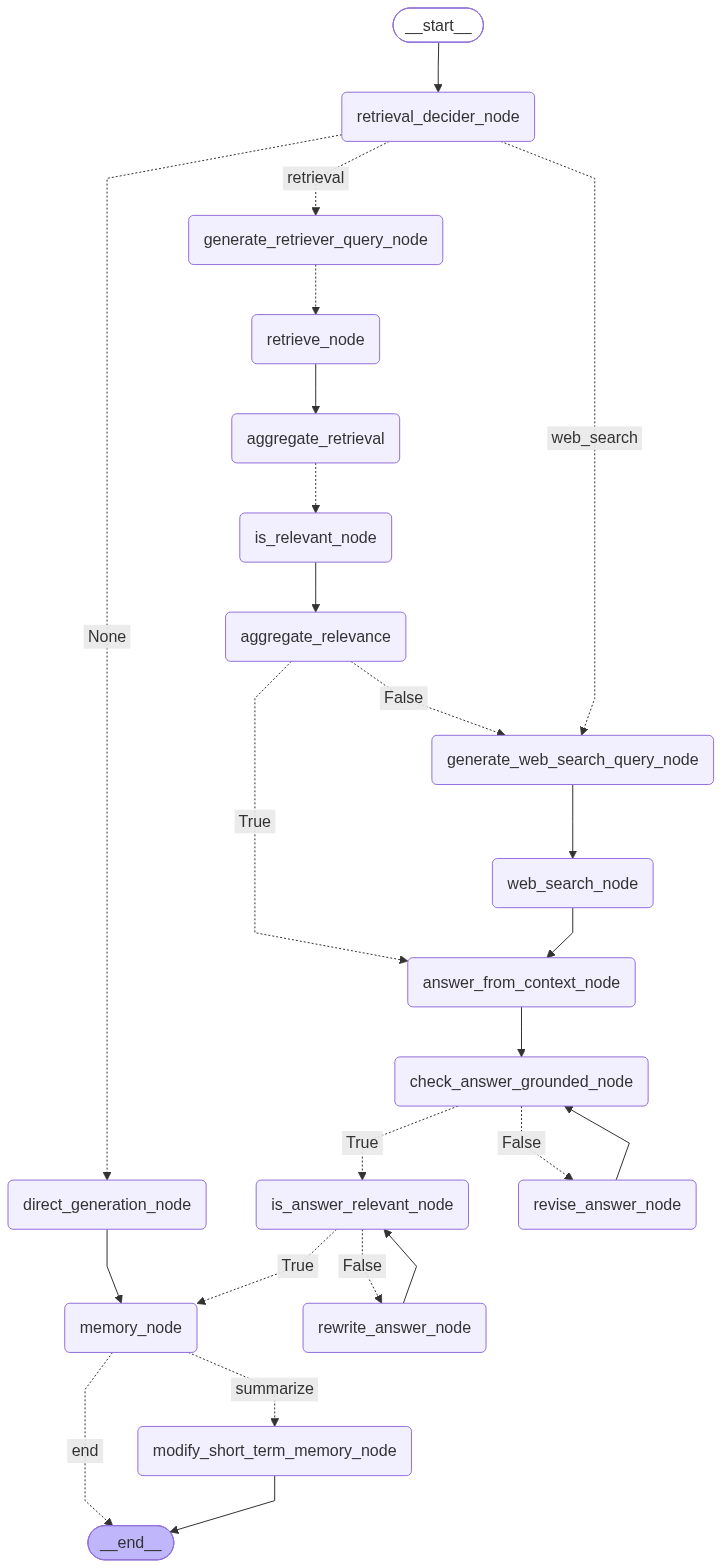
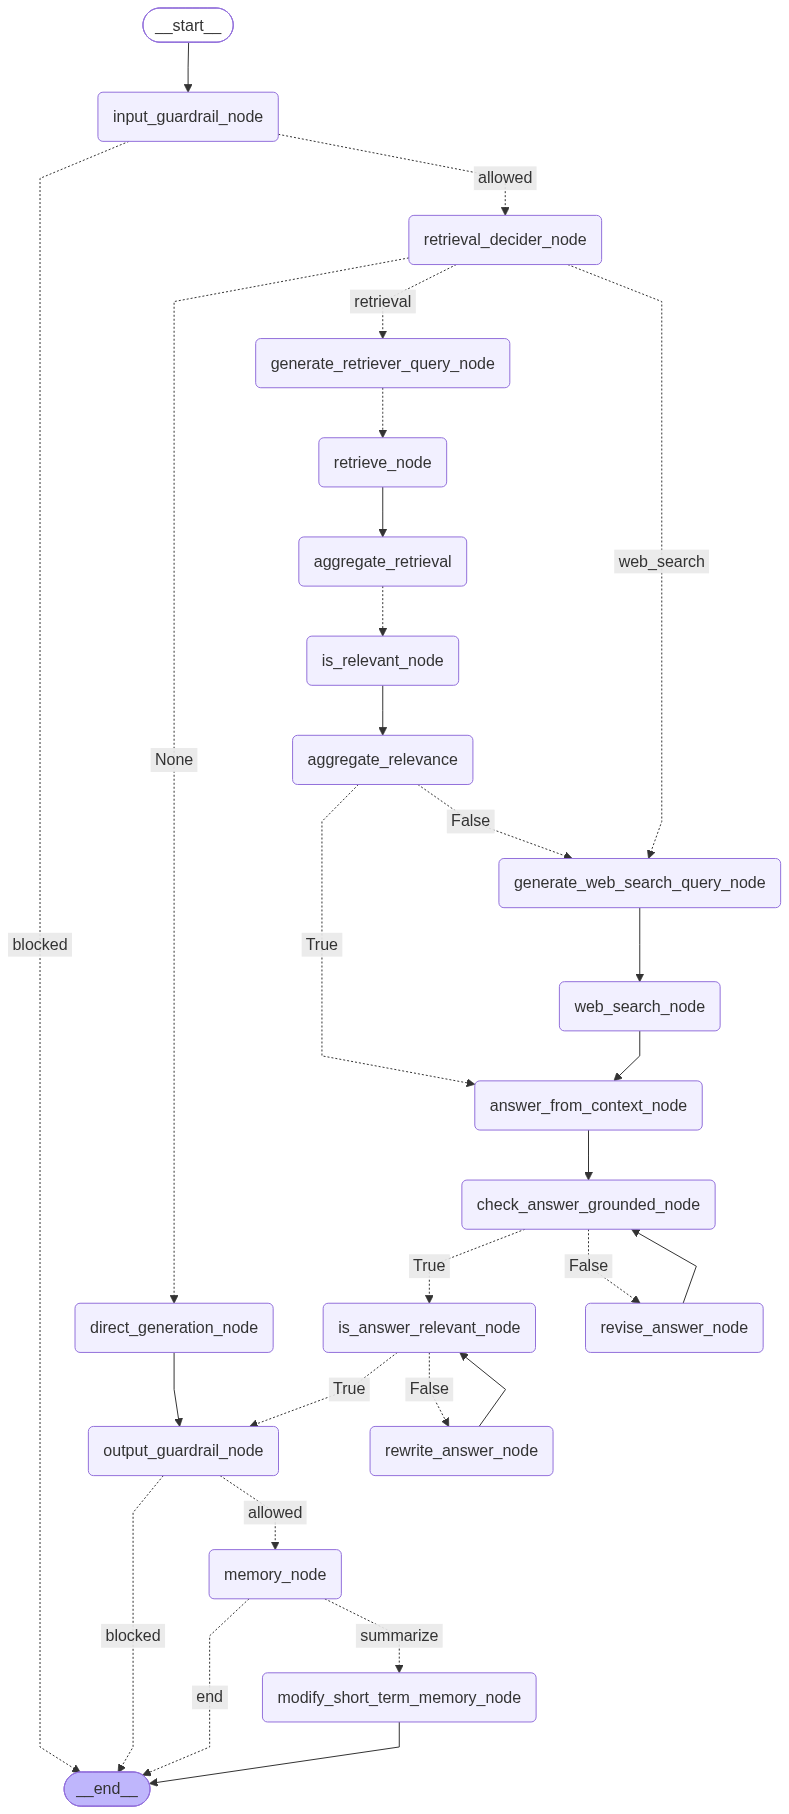
gaurdrails added

diff --git a/src/workflow/nodes.py b/src/workflow/nodes.py
@@ -1,4 +1,6 @@
 from langchain_core.messages import HumanMessage, AIMessage, SystemMessage
+import asyncio
+
 from workflow.state import schema
 from workflow.config import (
     decision_model,
@@ -14,6 +16,9 @@ from workflow.config import (
     tavily_tool,
     vector_store,
     max_retriever_queries,
+    guardrail_client,
+    guardrail_identifier,
+    guardrail_version,
 )
 from workflow.schemas import (
     parser_for_retrieval_decider_node,
@@ -41,6 +46,77 @@ from workflow.prompts import (
     sys_prompt_for_direct_generation_node,
 )
 from langgraph.types import Send
+
+
+GUARDRAIL_BLOCKED_MESSAGE = (
+    "Sorry, we can't help with this request because it is not allowed by our guardrails."
+)
+GUARDRAIL_PROVIDER_BLOCK_MESSAGE = "Sorry, the model cannot answer this question."
+
+
+async def _apply_guardrail(text: str, source: str) -> dict:
+    """Run Bedrock Guardrails without blocking the async event loop."""
+    return await asyncio.to_thread(
+        guardrail_client.apply_guardrail,
+        guardrailIdentifier=guardrail_identifier,
+        guardrailVersion=guardrail_version,
+        source=source,
+        content=[{"text": {"text": text}}],
+    )
+
+
+async def input_guardrail_node(state: schema):
+    result = await _apply_guardrail(state["user_query"], "INPUT")
+    intervened = result.get("action") == "GUARDRAIL_INTERVENED"
+    outputs = result.get("outputs") or []
+    modified_text = outputs[0].get("text") if outputs else None
+    blocked = intervened and (
+        modified_text == GUARDRAIL_PROVIDER_BLOCK_MESSAGE or not modified_text
+    )
+    if blocked:
+        return {
+            "message": GUARDRAIL_BLOCKED_MESSAGE,
+            "generated_response": GUARDRAIL_BLOCKED_MESSAGE,
+            "input_guardrail_intervened": True,
+            "input_guardrail_blocked": True,
+        }
+    if intervened:
+        return {
+            "user_query": modified_text,
+            "input_guardrail_intervened": True,
+            "input_guardrail_blocked": False,
+        }
+    return {
+        "input_guardrail_intervened": False,
+        "input_guardrail_blocked": False,
+    }
+
+
+async def output_guardrail_node(state: schema):
+    result = await _apply_guardrail(state["generated_response"], "OUTPUT")
+    intervened = result.get("action") == "GUARDRAIL_INTERVENED"
+    outputs = result.get("outputs") or []
+    modified_text = outputs[0].get("text") if outputs else None
+    blocked = intervened and (
+        modified_text == GUARDRAIL_PROVIDER_BLOCK_MESSAGE or not modified_text
+    )
+    if blocked:
+        return {
+            "message": GUARDRAIL_BLOCKED_MESSAGE,
+            "generated_response": GUARDRAIL_BLOCKED_MESSAGE,
+            "output_guardrail_intervened": True,
+            "output_guardrail_blocked": True,
+        }
+    if intervened:
+        return {
+            "generated_response": modified_text,
+            "output_guardrail_intervened": True,
+            "output_guardrail_blocked": False,
+        }
+    return {
+        "output_guardrail_intervened": False,
+        "output_guardrail_blocked": False,
+    }
 
 
 def _extract_r1_text(content) -> str:

diff --git a/src/workflow/__init__.py b/src/workflow/__init__.py
@@ -42,6 +42,8 @@ from workflow.nodes import (
     aggregate_retrieval,
     memory_node,
     modify_short_term_memory_node,
+    input_guardrail_node,
+    output_guardrail_node,
 )
 from workflow.edges import (
     retrieval_decider_condition,
@@ -49,6 +51,8 @@ from workflow.edges import (
     is_grounded_condition,
     is_answer_relevant_condition,
     memory_summary_condition,
+    input_guardrail_condition,
+    output_guardrail_condition,
 )
 
 if not os.getenv("LANGSMITH_API_KEY") or os.getenv("LANGSMITH_TRACING_V2") == "false":
@@ -61,6 +65,8 @@ if not os.getenv("LANGSMITH_API_KEY") or os.getenv("LANGSMITH_TRACING_V2") == "f
 
 graph = StateGraph(state_schema=schema)
 
+graph.add_node("input_guardrail_node", input_guardrail_node)
+graph.add_node("output_guardrail_node", output_guardrail_node)
 graph.add_node("retrieval_decider_node", retrieval_decider_node)
 graph.add_node("generate_retriever_query_node", generate_retriever_query_node)
 graph.add_node("retrieve_node", retrieve_node)
@@ -78,7 +84,12 @@ graph.add_node("aggregate_relevance", aggregate_relevance)
 graph.add_node("memory_node", memory_node)
 graph.add_node("modify_short_term_memory_node", modify_short_term_memory_node)
 
-graph.add_edge(START, "retrieval_decider_node")
+graph.add_edge(START, "input_guardrail_node")
+graph.add_conditional_edges(
+    "input_guardrail_node",
+    input_guardrail_condition,
+    {"allowed": "retrieval_decider_node", "blocked": END},
+)
 graph.add_conditional_edges(
     "retrieval_decider_node",
     retrieval_decider_condition,
@@ -94,7 +105,7 @@ graph.add_conditional_edges(
     path_map=["retrieve_node"],
 )
 graph.add_edge("generate_web_search_query_node", "web_search_node")
-graph.add_edge("direct_generation_node", "memory_node")
+graph.add_edge("direct_generation_node", "output_guardrail_node")
 graph.add_edge("retrieve_node", "aggregate_retrieval")
 graph.add_conditional_edges(
     "aggregate_retrieval",
@@ -118,7 +129,7 @@ graph.add_edge("revise_answer_node", "check_answer_grounded_node")
 graph.add_conditional_edges(
     "is_answer_relevant_node",
     is_answer_relevant_condition,
-    {True: "memory_node", False: "rewrite_answer_node"},
+    {True: "output_guardrail_node", False: "rewrite_answer_node"},
 )
 graph.add_edge("rewrite_answer_node", "is_answer_relevant_node")
 graph.add_conditional_edges(
@@ -127,6 +138,11 @@ graph.add_conditional_edges(
     {"summarize": "modify_short_term_memory_node", "end": END},
 )
 graph.add_edge("modify_short_term_memory_node", END)
+graph.add_conditional_edges(
+    "output_guardrail_node",
+    output_guardrail_condition,
+    {"allowed": "memory_node", "blocked": END},
+)
 
 
 @asynccontextmanager

diff --git a/src/workflow/config.py b/src/workflow/config.py
@@ -4,6 +4,7 @@ from langchain_tavily import TavilySearch
 from dotenv import load_dotenv
 import os
 import yaml
+import boto3
 
 load_dotenv()
 
@@ -17,6 +18,12 @@ _emb = _cfg["embeddings"]
 _vs = _cfg["vector_store"]
 _ret = _cfg["retriever"]
 _ws = _cfg["web_search"]
+_guardrails = _cfg["guardrails"]
+
+guardrail_identifier = _guardrails["identifier"]
+guardrail_version = str(_guardrails["version"])
+guardrail_region = _guardrails["region"]
+guardrail_client = boto3.client("bedrock-runtime", region_name=guardrail_region)
 
 # ── AWS auth ───────────────────────────────────────────────────────────────────
 if not os.environ.get("AWS_BEARER_TOKEN_BEDROCK"):

diff --git a/src/cli.py b/src/cli.py
@@ -5,15 +5,8 @@ import warnings
 import logging
 import time
 
-os.environ["TRANSFORMERS_VERBOSITY"] = "error"
-os.environ["HF_HUB_DISABLE_SYMLINKS_WARNING"] = "1"
-warnings.filterwarnings("ignore")
-logging.getLogger("transformers").setLevel(logging.ERROR)
-logging.getLogger("sentence_transformers").setLevel(logging.ERROR)
-logging.getLogger("huggingface_hub").setLevel(logging.ERROR)
-
 import asyncio
-from workflow import get_workflow
+from .workflow import get_workflow
 import argparse
 import uuid
 from rich.console import Console

diff --git a/src/workflow/edges.py b/src/workflow/edges.py
@@ -5,6 +5,14 @@ def retrieval_decider_condition(state: schema):
     return state["retrieval_required"]
 
 
+def input_guardrail_condition(state: schema):
+    return "blocked" if state.get("input_guardrail_blocked") else "allowed"
+
+
+def output_guardrail_condition(state: schema):
+    return "blocked" if state.get("output_guardrail_blocked") else "allowed"
+
+
 def is_relevant_condition(state: schema):
     return len(state["relevant_contexts"]) > 0
 

diff --git a/src/workflow/state.py b/src/workflow/state.py
@@ -57,3 +57,8 @@ class schema(TypedDict):
     messages_to_include: Optional[int]
     input_tokens: Annotated[int, operator.add]
     output_tokens: Annotated[int, operator.add]
+    message: Optional[str]
+    input_guardrail_intervened: bool
+    output_guardrail_intervened: bool
+    input_guardrail_blocked: bool
+    output_guardrail_blocked: bool
